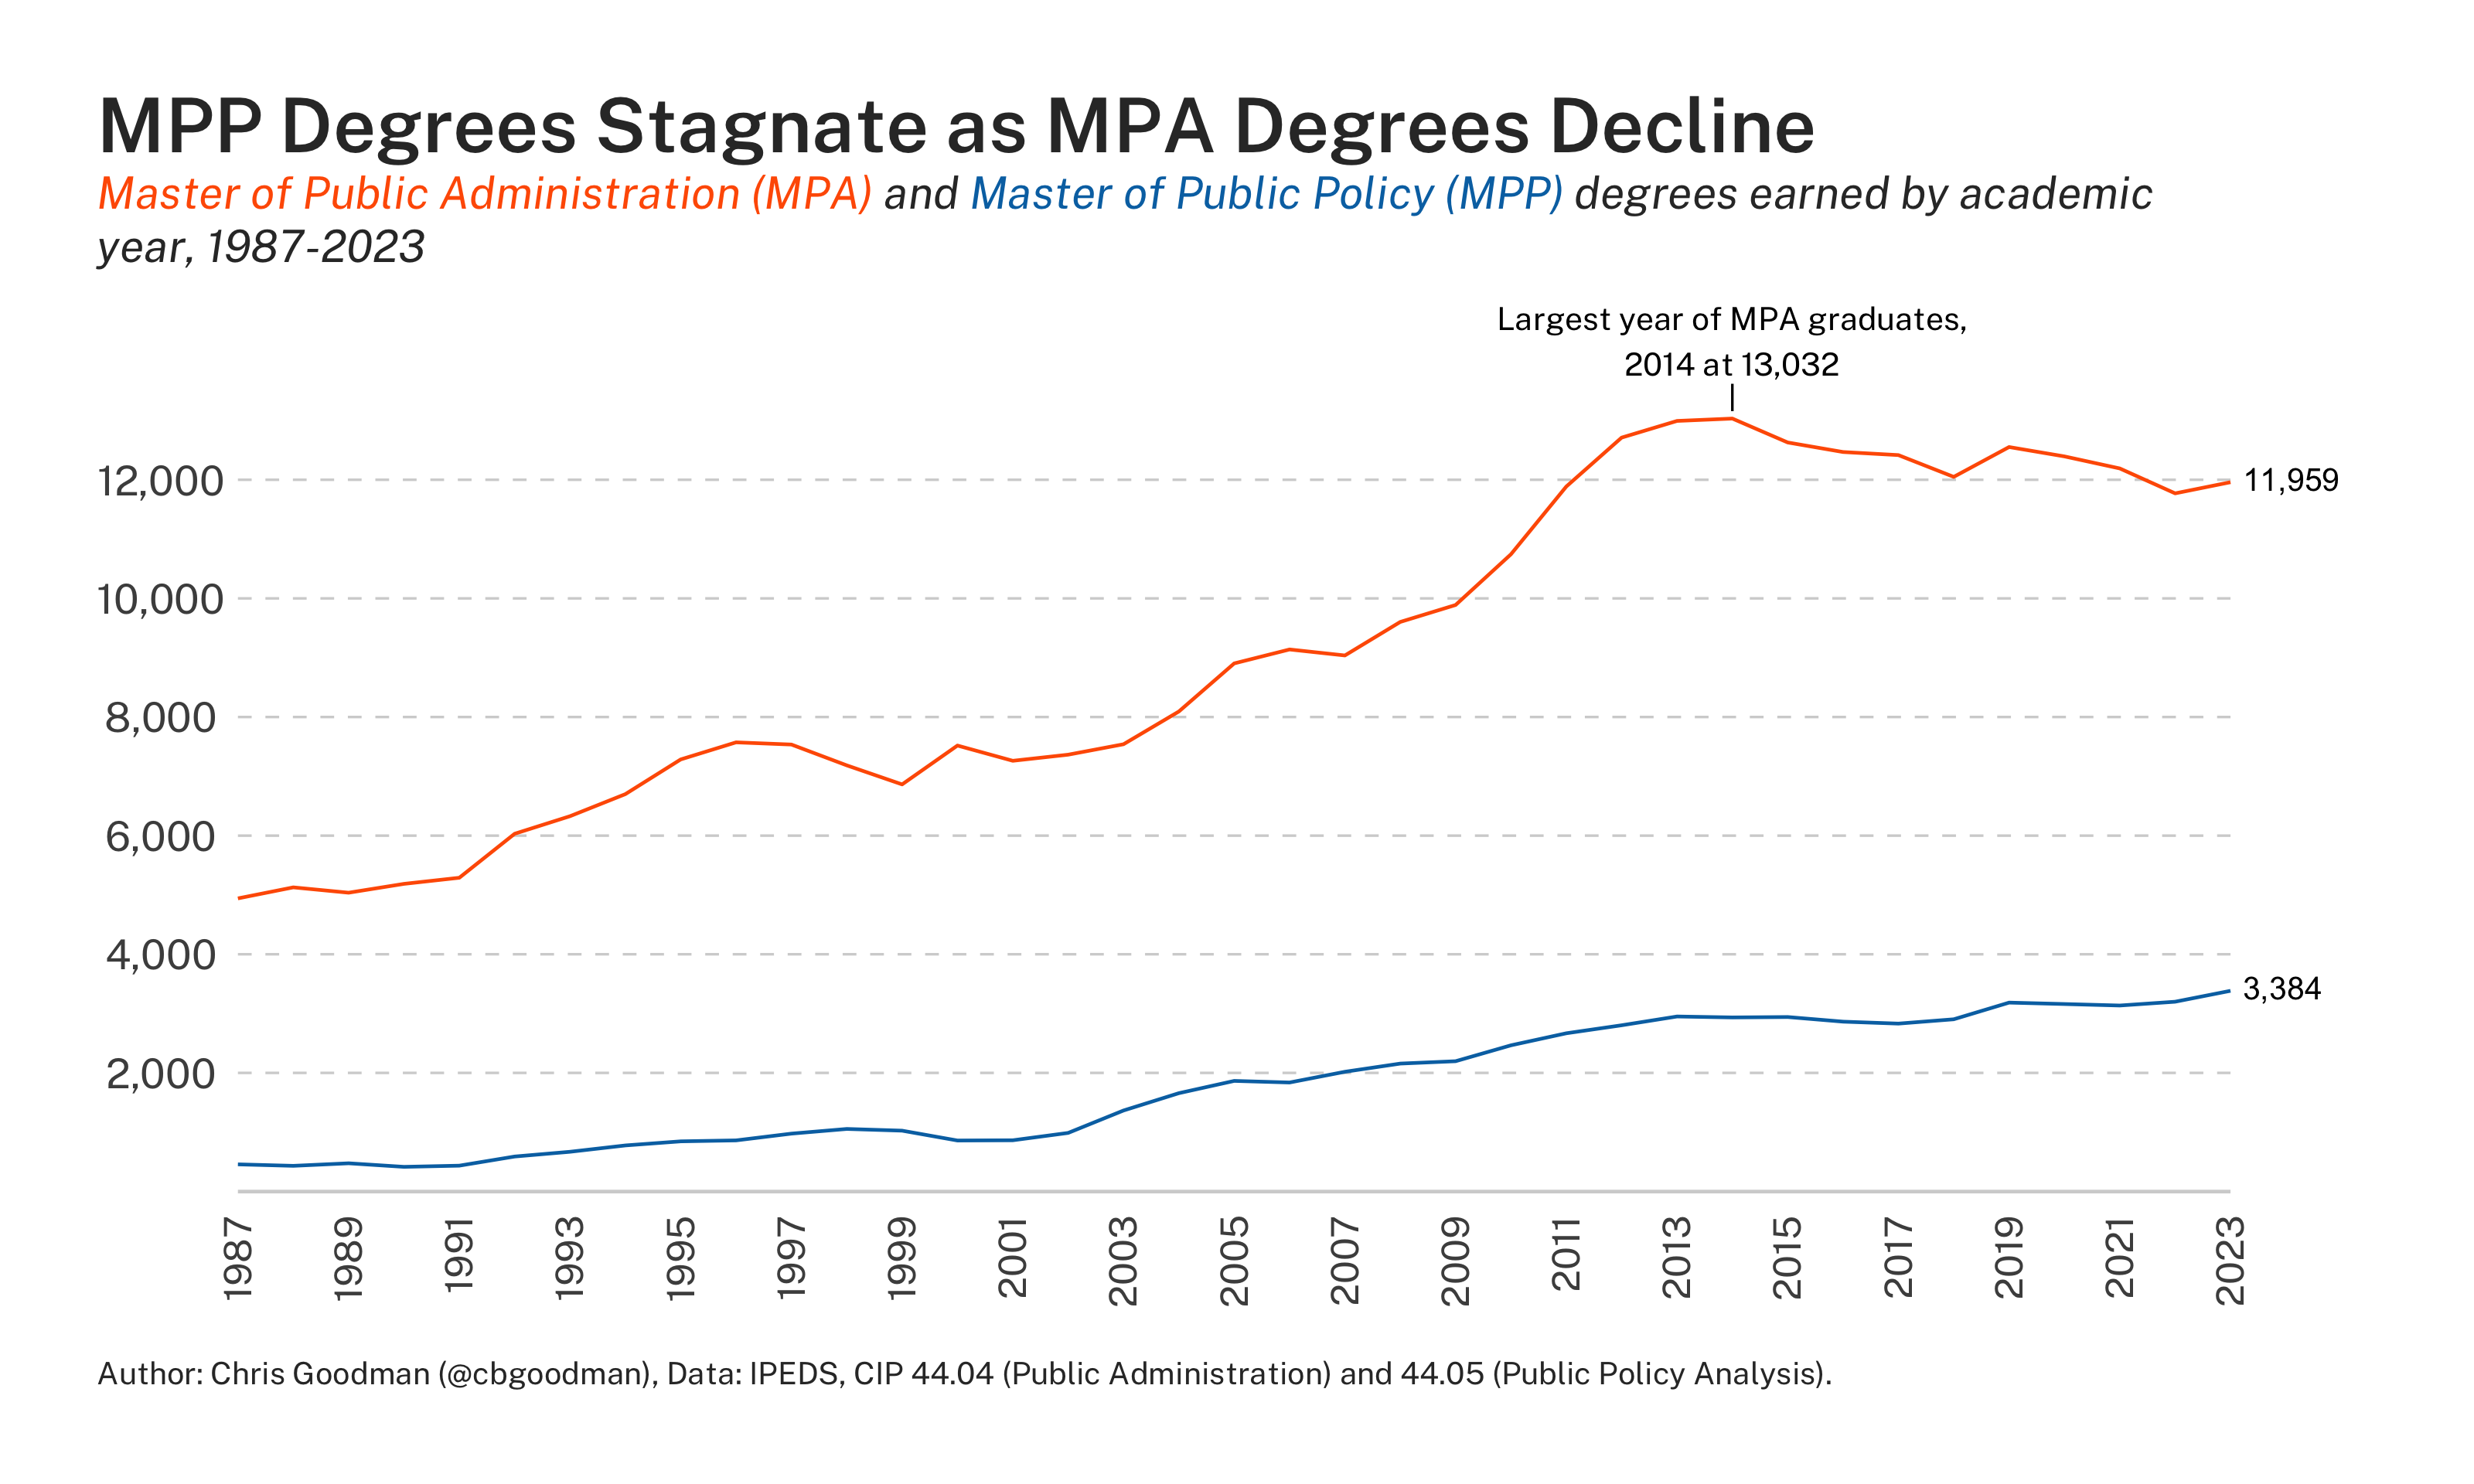
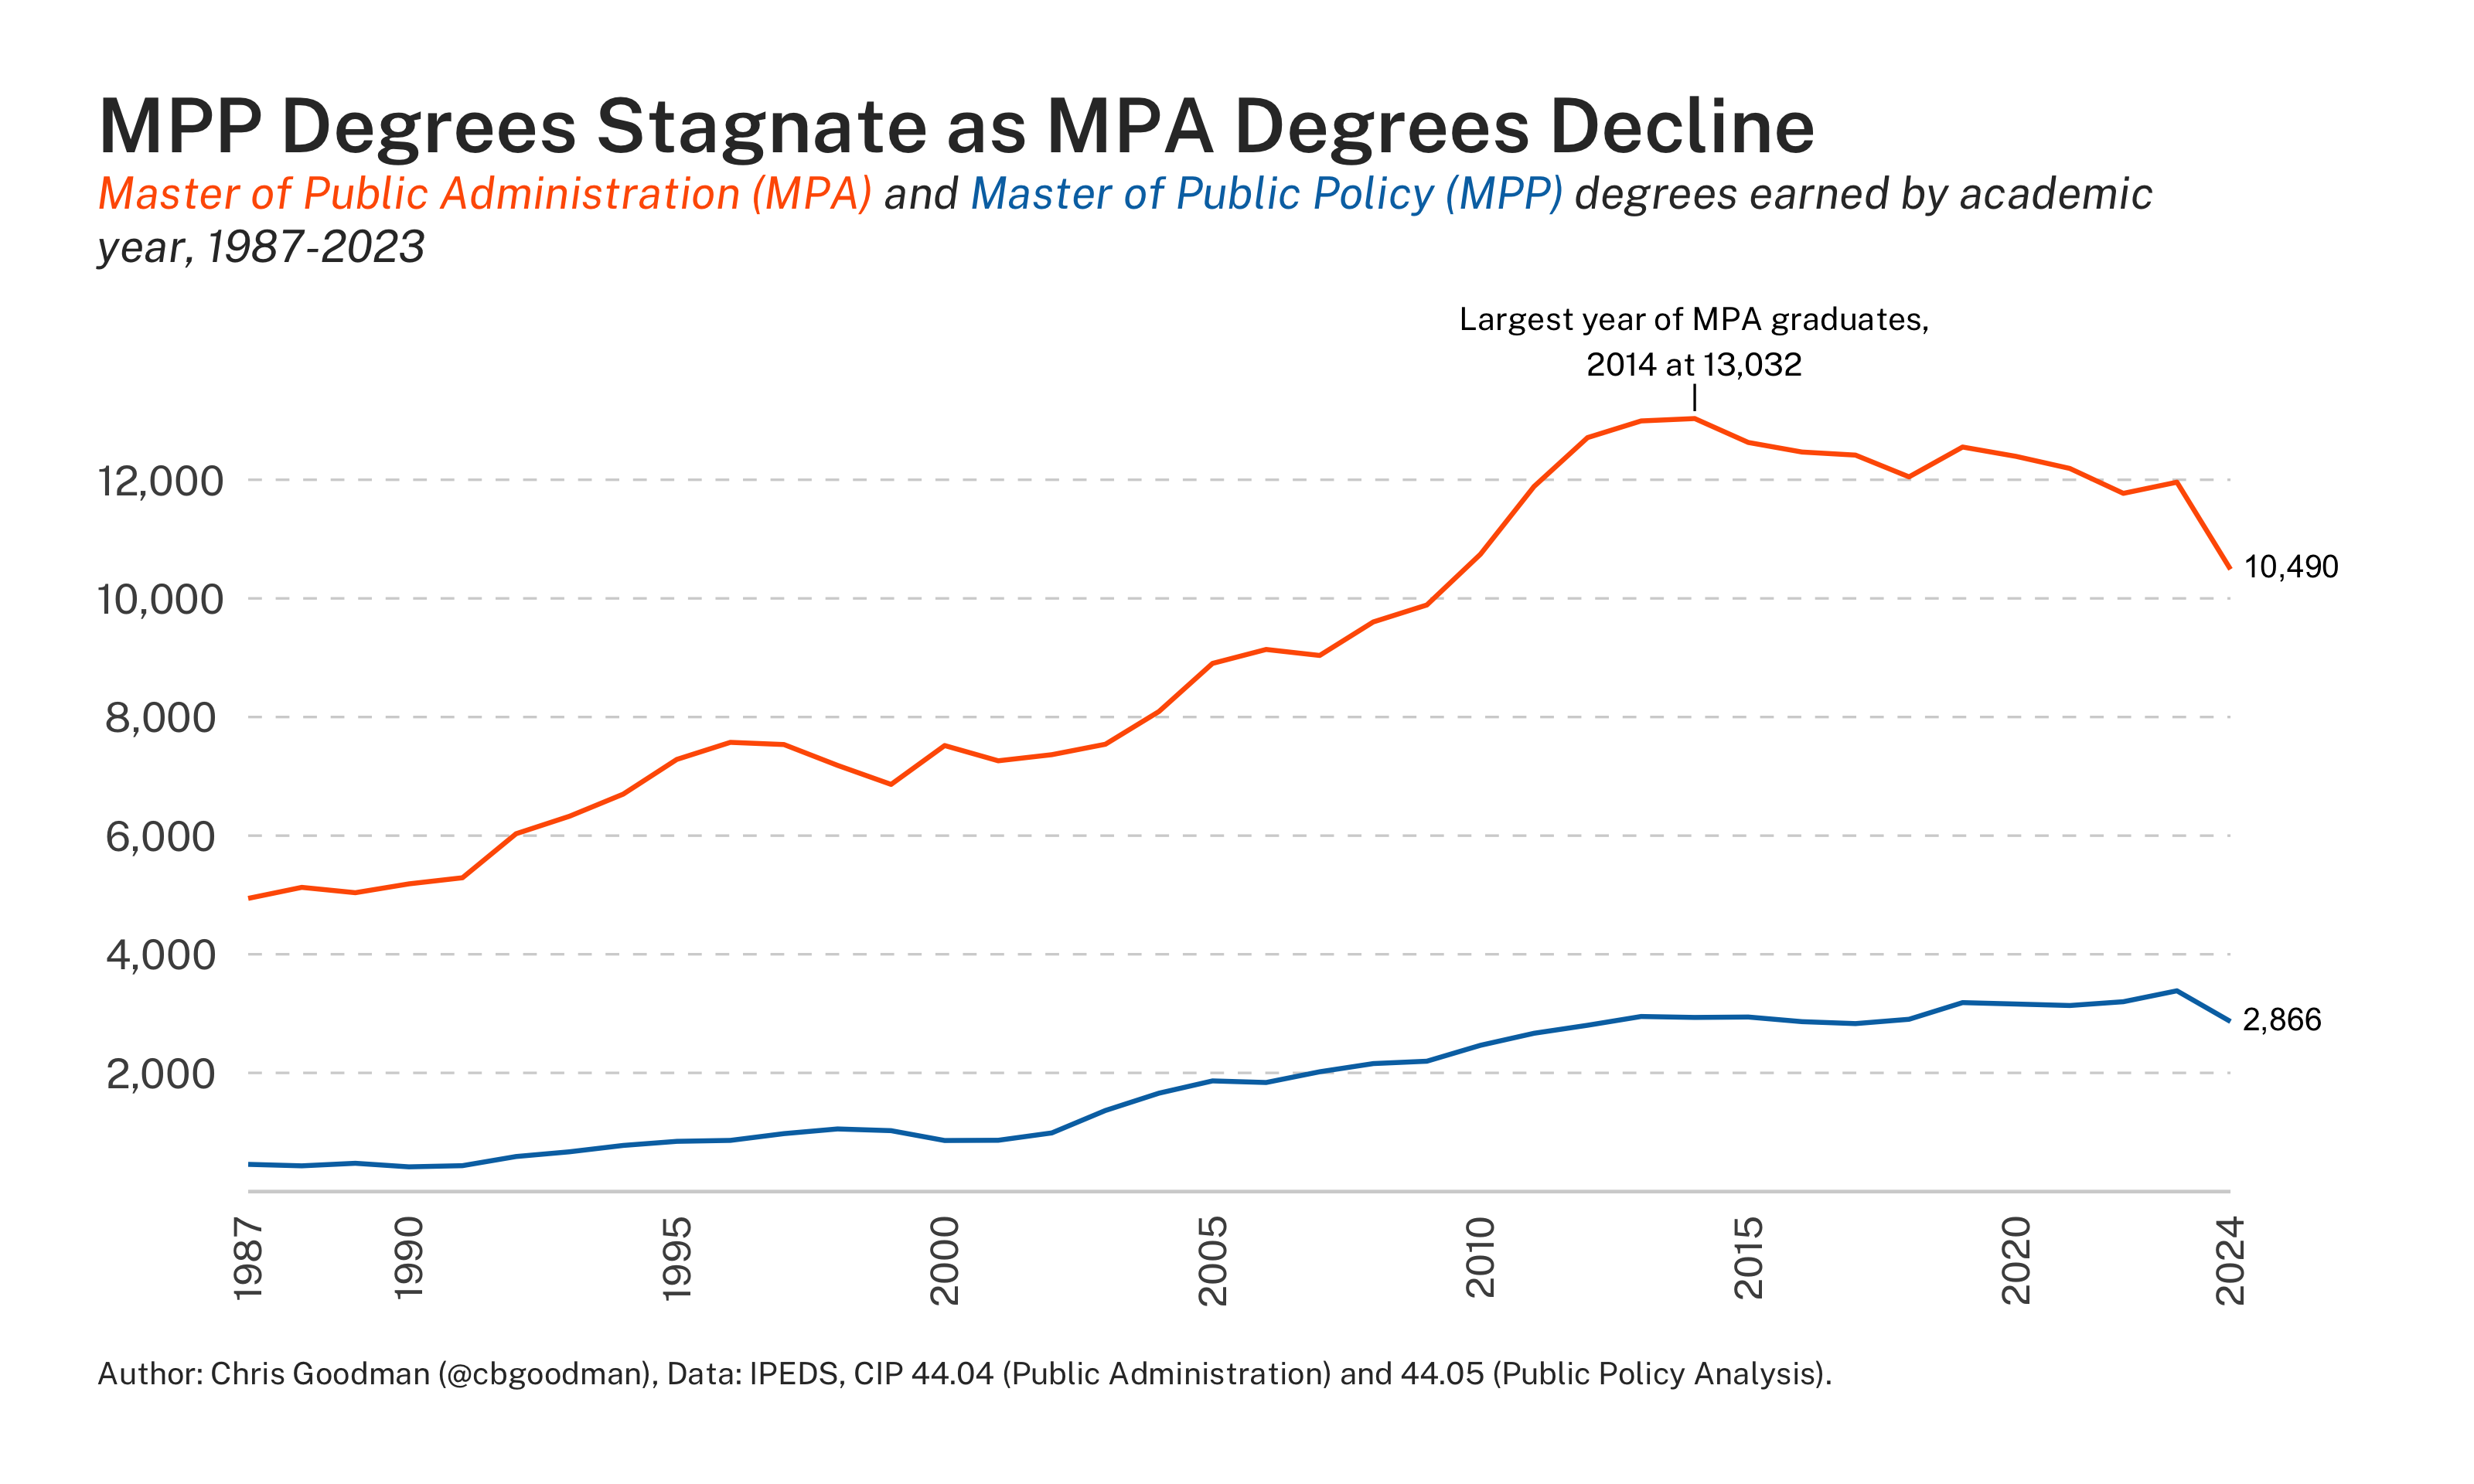
update for AY24

diff --git a/README.md b/README.md
@@ -1,6 +1,6 @@
 # Earned Graduate Degrees in Public Affairs
 
-The **R** script `code/ipeds-pa.r` reads `data/data.csv` to create the images below of earned graduate degrees in public affairs from academic year ending 1987 to 2023. The data are from [IPEDS Data Center](https://nces.ed.gov/ipeds/use-the-data).
+The **R** script `code/ipeds-pa.r` reads `data/data.csv` to create the images below of earned graduate degrees in public affairs from academic year ending 1987 to 2024. The data are from [IPEDS Data Center](https://nces.ed.gov/ipeds/use-the-data).
 
 ## Data
 The data are sourced from the IPEDS database using the "Title IV and U.S. service institutions (NCES publications)" group.